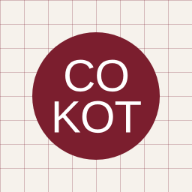
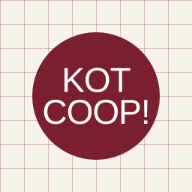
Name the cooperative KOTCOOP!
Claude-Session: https://claude.ai/code/session_01W9f7gkFbkgMrxrAebYhxBn

Changed region(s): [[0.2188, 0.2812, 0.7812, 0.7188]]

diff --git a/index.html b/index.html
@@ -3,7 +3,7 @@
 <head>
 <meta charset="utf-8">
 <meta name="viewport" content="width=device-width, initial-scale=1, viewport-fit=cover">
-<title>COKOT</title>
+<title>KOTCOOP!</title>
 <meta name="claude:viewport-fit-sides" content="cover">
 <link rel="manifest" href="manifest.webmanifest">
 <link rel="icon" href="icon-192.png">
@@ -243,7 +243,7 @@ a.mapbox:active .maptag { background: var(--blue); color: #fff; border-color: va
 <div class="halo-glow" aria-hidden="true"></div><div class="halo" aria-hidden="true"></div>
 <header class="top">
   <div class="wrap">
-    <a class="logo" href="#manifesto" aria-label="COKOT home"><span>Co</span><span>Kot</span><span>Jokerweek 2027</span></a>
+    <a class="logo" href="#manifesto" aria-label="KOTCOOP! home"><span>Kot</span><span>Coop!</span><span>Jokerweek 2027</span></a>
     <nav class="tabs" aria-label="Sections">
       <a href="#manifesto">Manifesto</a>
       <a href="#schedule">Schedule</a>
@@ -264,7 +264,7 @@ a.mapbox:active .maptag { background: var(--blue); color: #fff; border-color: va
   <section class="view" id="v-manifesto">
     <svg class="thread-line" aria-hidden="true"><path id="thread-path"/></svg>
     <div class="titlebox">
-      <div class="box"><h1>Manifesto</h1><span class="sub">COKOT · Jokerweek 2027 · 22.03 – 26.03 · Engineering Architecture UGent</span></div>
+      <div class="box"><h1>Manifesto</h1><span class="sub">KOTCOOP! · Jokerweek 2027 · 22.03 – 26.03 · Engineering Architecture UGent</span></div>
       <a class="tex mapbox" href="#locations" aria-label="Map of Ghent: open locations"><span class="map" data-map="small"></span><span class="maptag">Locations →</span></a>
     </div>
     <article class="box manifesto">
@@ -272,7 +272,7 @@ a.mapbox:active .maptag { background: var(--blue); color: #fff; border-color: va
       <p class="reveal">For many, living in a student residence is an essential part of this experience. It is often their first home away from home, a place where friendships are formed and where they learn what it means to live independently.</p>
       <p class="reveal">Yet student housing is increasingly losing this potential. As <span class="hl">rents continue to rise</span>, finding an affordable room in Ghent is becoming more difficult. Student housing is increasingly treated as an investment opportunity, with the <span class="hl">financial interests of property owners</span> often <span class="hl">taking priority over the needs of students</span>. At the same time, students have little influence over the places they inhabit. Strict rental agreements and regulations leave <span class="hl">limited room for personalisation, creativity, or collective initiatives</span>. Although students spend an important part of their lives in these residences, they rarely have the opportunity to truly make them their own.</p>
       <p class="reveal">We believe <span class="hl">student housing should be more than simply a place to sleep</span> between lectures. It <span class="hl">should be an environment that encourages independence, personal development, and meaningful relationships. A place where students can feel at home and actively contribute to the community around them.</span></p>
-      <p class="turn reveal">This is why we want to introduce a different approach to student housing in Ghent: the student housing cooperative. We call it COKOT.</p>
+      <p class="turn reveal">This is why we want to introduce a different approach to student housing in Ghent: the student housing cooperative. We call it KOTCOOP!</p>
       <p class="reveal">A housing cooperative offers an alternative to the conventional relationship between landlord and tenant. Rather than being owned by an individual landlord or a profit-driven company, housing is <span class="hl">collectively owned or managed</span> through a cooperative organisation, the students themselves. Its purpose is <span class="hl">not to maximise financial returns</span>, but to provide <span class="hl">good and affordable housing for its members</span>, both <span class="hl">now and in the future</span>.</p>
       <p class="reveal">In a student housing cooperative, residents become members of an organisation in which they <span class="hl">have a meaningful voice</span>. They <span class="hl">participate in shaping</span> the way their residence functions and <span class="hl">share responsibility for its development</span>. Instead of simply following decisions made by an external property owner, students are encouraged to take part in the <span class="hl">management of their own living environment</span>.</p>
       <p class="reveal">The <span class="hl">financial structure</span> also works differently. The money residents contribute is primarily used to <span class="hl">cover the costs of the property</span>, <span class="hl">maintain and improve the building</span>, and ensure the <span class="hl">long-term continuity</span> of the cooperative. By prioritising these goals over private profit, the cooperative can work towards <span class="hl">keeping housing affordable over time</span>. This way we can stop following the trend of increasing rents.</p>
@@ -398,7 +398,7 @@ a.mapbox:active .maptag { background: var(--blue); color: #fff; border-color: va
 
 </main>
 
-<footer><div class="wrap"><div class="box"><span>COKOT · Jokerweek 2027 · Ghent University</span><span>Draft · placeholders in dashed blue</span></div></div></footer>
+<footer><div class="wrap"><div class="box"><span>KOTCOOP! · Jokerweek 2027 · Ghent University</span><span>Draft · placeholders in dashed blue</span></div></div></footer>
 
 <script>
 // ---- Schedule (edit here) ----

diff --git a/sw.js b/sw.js
@@ -1,5 +1,5 @@
 // Keeps the site usable offline: serve from cache, refresh the cache in the background.
-const CACHE = "jokerweek-v4";
+const CACHE = "jokerweek-v5";
 const FILES = ["./", "index.html", "manifest.webmanifest", "icon-192.png", "icon-512.png"];
 self.addEventListener("install", e => e.waitUntil(caches.open(CACHE).then(c => c.addAll(FILES))));
 self.addEventListener("activate", e => e.waitUntil(caches.keys().then(ks => Promise.all(ks.filter(k => k !== CACHE).map(k => caches.delete(k))))));

diff --git a/README.md b/README.md
@@ -1,4 +1,4 @@
-# COKOT · Jokerweek 2027
+# KOTCOOP! · Jokerweek 2027
 
 Website (installable web-app) for the Jokerweek of the master's students Engineering Architecture at UGent, 22–26 March 2027: a student housing cooperative in Ghent.
 
